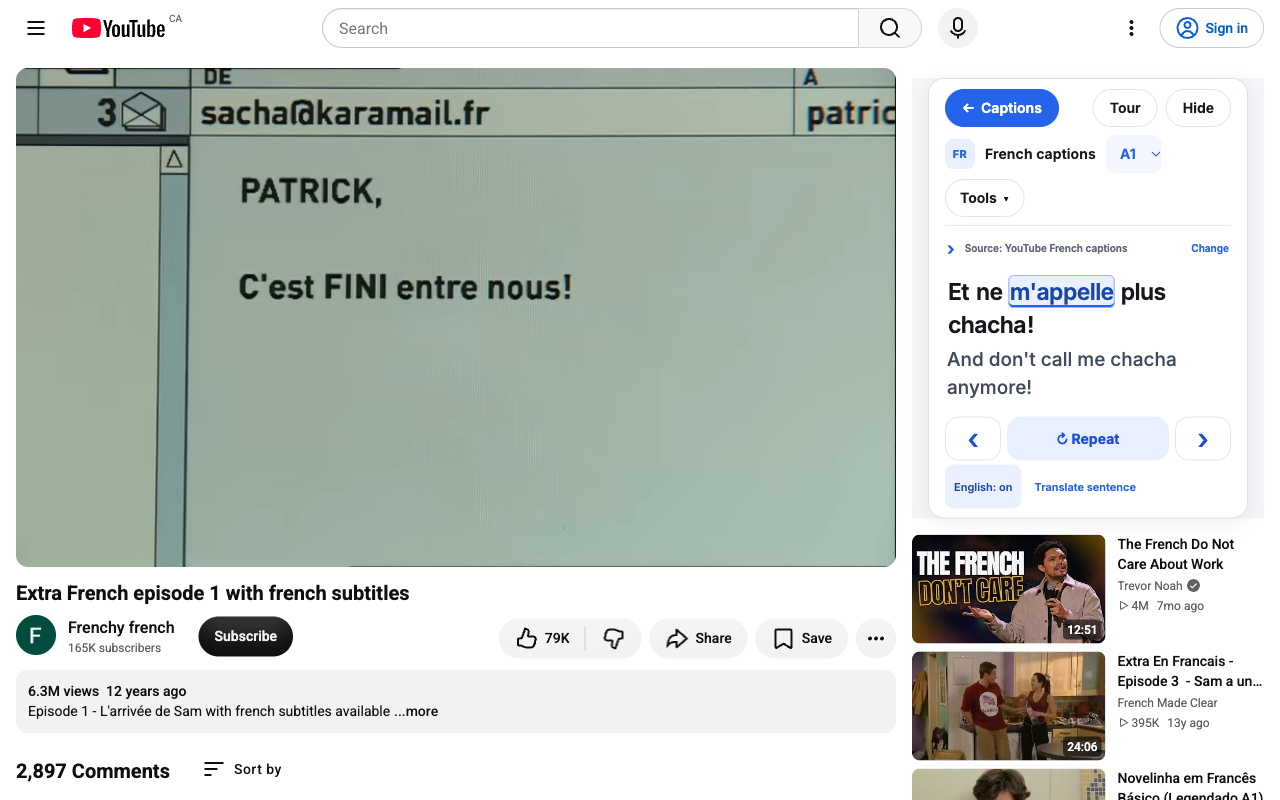
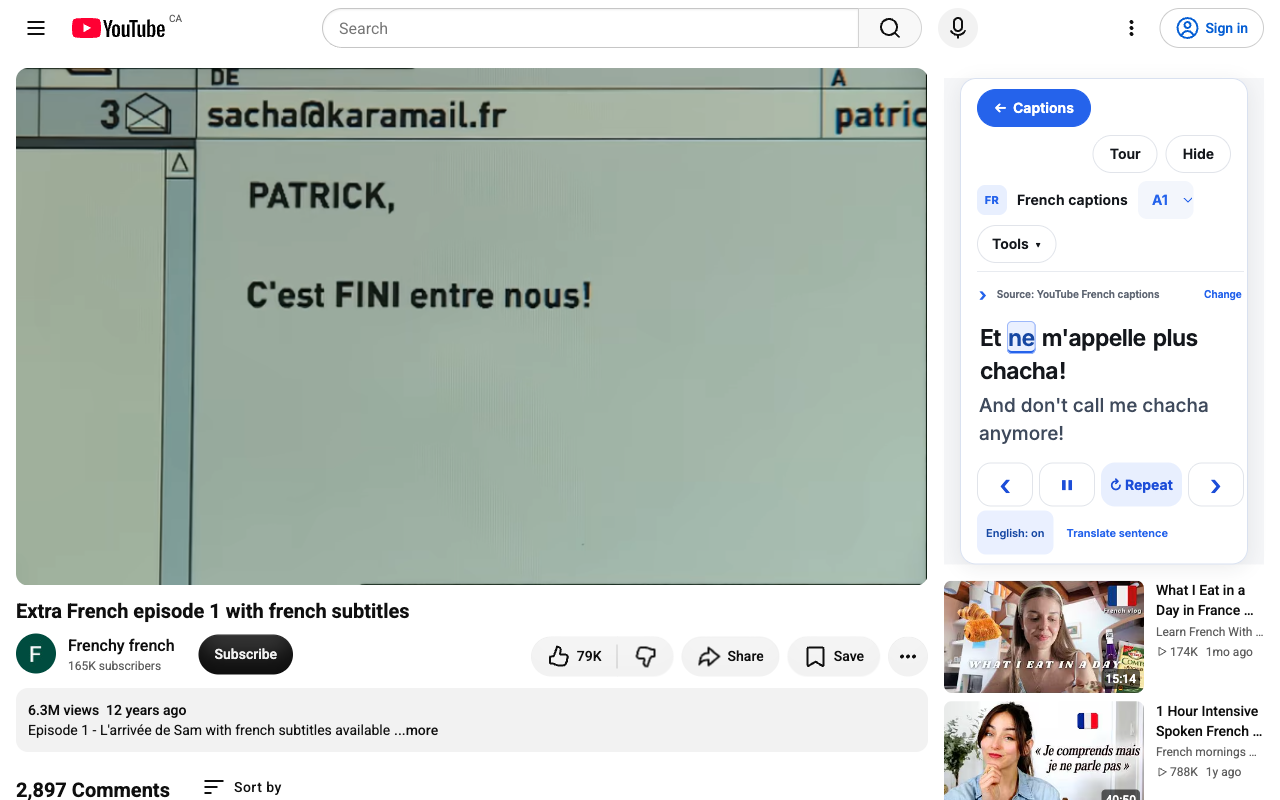
Immersion: play/pause button beside the line chevrons; retaken store screenshots; verified live-line revisit cache
Generated with [Devin](https://devin.ai)

diff --git a/parlesprint-immersion/tests/qa.spec.ts b/parlesprint-immersion/tests/qa.spec.ts
@@ -1004,3 +1004,46 @@ test("live captions: a rolling two-line window and a live English line, in both 
   await check();
   await context.unroute("https://translate.googleapis.com/**");
 });
+
+test("play and pause button works like YouTube's, in the full panel and the slim bar", async () => {
+  const { page, panel } = await imported();
+  const paused = () => page.locator("video").evaluate((v: HTMLVideoElement) => v.paused);
+  await page.locator("video").evaluate((v: HTMLVideoElement) => { v.pause(); });
+  await expect(panel.getByRole("button", { name: "Play" })).toBeVisible();
+  await panel.getByRole("button", { name: "Play" }).click();
+  await expect.poll(paused).toBe(false);
+  await expect(panel.getByRole("button", { name: "Pause" })).toBeVisible();
+  await panel.getByRole("button", { name: "Pause" }).click();
+  await expect.poll(paused).toBe(true);
+  const worker = context.serviceWorkers()[0]!;
+  await worker.evaluate(() => (globalThis as any).chrome.storage.local.set({ prefs: { compactView: true, placement: "below", tourDone: true } }));
+  await panel.getByRole("button", { name: "Play" }).click();
+  await expect.poll(paused).toBe(false);
+  await page.locator("video").evaluate((v: HTMLVideoElement) => v.pause());
+  await expect(panel.getByRole("button", { name: "Play" })).toBeVisible();
+});
+
+test("live lines are saved per video and shown again on a revisit with no new transcription", async () => {
+  const { page } = await fixture();
+  const worker = context.serviceWorkers()[0]!;
+  await page.route("https://www.youtube.com/youtubei/v1/player*", (r) => r.fulfill({ contentType: "application/json", body: JSON.stringify({ playabilityStatus: { status: "ERROR" } }) }));
+  await worker.evaluate(() => (globalThis as any).chrome.storage.local.set({ prefs: { compactView: true, placement: "below", tourDone: true, showTranslation: false } }));
+  const send = (message: Record<string, unknown>) =>
+    worker.evaluate(async (m) => {
+      const c = (globalThis as any).chrome;
+      const [tab] = await c.tabs.query({ url: "https://www.youtube.com/watch*" });
+      await c.tabs.sendMessage(tab.id, { ...m, tabId: tab.id });
+    }, message);
+  await page.locator("video").evaluate((v: HTMLVideoElement) => { v.pause(); v.currentTime = 2; });
+  await send({ type: "live-transcription-status", status: "listening" });
+  await send({ type: "live-transcription-final", text: "Bonjour le monde", at: 2, epoch: 0 });
+  await expect.poll(async () => {
+    const data = await worker.evaluate(async () => await (globalThis as any).chrome.storage.local.get(null));
+    return Object.keys(data).filter((k) => k.startsWith("captions:")).length;
+  }).toBeGreaterThan(0);
+  await page.reload();
+  await expect(page.locator("parlesprint-immersion")).toHaveCount(1);
+  await page.locator("video").evaluate((v: HTMLVideoElement) => { v.pause(); v.currentTime = 1.8; v.dispatchEvent(new Event("timeupdate")); });
+  const bar = page.getByRole("complementary", { name: "ParleSprint Immersion" });
+  await expect(bar.locator(".sentence")).toContainText("Bonjour le monde");
+});

diff --git a/parlesprint-immersion/lib/Immersion.tsx b/parlesprint-immersion/lib/Immersion.tsx
@@ -142,6 +142,7 @@ export function Immersion({ practice }: { practice?: Practice } = {}) {
   const pausedByLookup = useRef(false);
   const [tourStep, setTourStep] = useState<number | null>(null);
   const [liveInterim, setLiveInterim] = useState("");
+  const [isPaused, setIsPaused] = useState(true);
   const [liveShown, setLiveShown] = useState("");
   const [liveTx, setLiveTx] = useState("");
   const [liveCaptureActive, setLiveCaptureActive] = useState(false);
@@ -446,12 +447,13 @@ export function Immersion({ practice }: { practice?: Practice } = {}) {
         cancelReplay();
     };
     const stop = () => cancelReplay();
-    const play = () => { setHeldCue(undefined); tick(); };
+    const syncPaused = () => setIsPaused(video.paused);
+    const play = () => { setHeldCue(undefined); pausedByLookup.current = false; syncPaused(); tick(); };
     const rate = () => { setPlaybackRate(video.playbackRate); };
     const clock = () => { tick(); };
     const seeking = () => { setPlayerSeeking(true); seek(); tick(); };
     const seeked = () => { setPlayerSeeking(false); tick(); };
-    const pause = () => { stop(); tick(); };
+    const pause = () => { stop(); syncPaused(); tick(); };
     video.addEventListener("play", play);
     video.addEventListener("ratechange", rate);
     rate();
@@ -460,6 +462,7 @@ export function Immersion({ practice }: { practice?: Practice } = {}) {
     video.addEventListener("seeked", seeked);
     video.addEventListener("pause", pause);
     video.addEventListener("ended", stop);
+    syncPaused();
     tick();
     setPlayerSeeking(video.seeking);
     return () => {
@@ -892,6 +895,19 @@ export function Immersion({ practice }: { practice?: Practice } = {}) {
     <div className={`seg-nav${compact ? " compact" : ""}`} role="group" aria-label="Move between lines">
       <button className="seg-chevron" aria-label="Previous line" title="Previous line" disabled={!prevCue} onClick={() => prevCue && replay(prevCue)}>
         <span aria-hidden="true">‹</span>
+      </button>
+      <button
+        className="seg-chevron seg-play"
+        aria-label={isPaused ? "Play" : "Pause"}
+        title={isPaused ? "Play" : "Pause"}
+        disabled={!video}
+        onClick={() => {
+          if (!video) return;
+          if (video.paused) void video.play().catch(() => undefined);
+          else video.pause();
+        }}
+      >
+        <span aria-hidden="true">{isPaused ? "▶" : "⏸"}</span>
       </button>
       <button
         className={`seg-repeat primary${compact ? hl("repeat", compactTour) : ""}`}

diff --git a/parlesprint-immersion/lib/style.css b/parlesprint-immersion/lib/style.css
@@ -1609,3 +1609,11 @@ body {
 .ps .tail-clamp { display: block; position: relative; }
 .ps .tail-measure { position: absolute; left: 0; right: 0; top: 0; display: block; visibility: hidden; pointer-events: none; }
 .ps.youtube-companion .sentence.live { display: block; -webkit-line-clamp: unset; max-height: none; overflow: visible; }
+
+/* Play / pause between the chevrons */
+.ps .seg-nav .seg-play { font-size: 18px; }
+.ps.youtube-companion .caption-actions .seg-nav .seg-play { font-size: 20px; flex: 0 0 56px; }
+.ps.ov .seg-nav.compact .seg-play { font-size: 14px; }
+.ps.ov.docked .seg-nav.compact .seg-play { flex: 0 0 32px; min-width: 32px; }
+.ps.ov.docked .ov-controls > button[aria-label="How this works"] { display: none; }
+.ps.ov.docked .ov-controls { flex-wrap: nowrap; }

diff --git a/parlesprint-immersion/store/SUBMISSION_CHECKLIST.md b/parlesprint-immersion/store/SUBMISSION_CHECKLIST.md
@@ -3,7 +3,7 @@
 Upload: `release/parlesprint-immersion-0.2.0-chrome-STORE.zip` (built with `npm run zip:store`; the manifest has no `key`, as the Web Store requires).
 
 ## Done and verified
-- [x] 117 unit tests, 16 backend tests, 28 browser tests pass; production build contains no test-only code or secrets.
+- [x] 117 unit tests, 16 backend tests, 31 browser tests pass; production build contains no test-only code or secrets.
 - [x] Minimal permissions: storage, activeTab, scripting, tabCapture, offscreen. Hosts: youtube.com, translate.googleapis.com, the Supabase project. No broad host access, no microphone, no remote code, no identity.
 - [x] Backend accepts any Chrome extension origin (the store assigns the ID after upload), rejects websites, and enforces free daily limits per install, IP and globally.
 - [x] Privacy policy deployed at the Supabase URL and matches this build (v0.4). Previous deployed text archived in `store/archive/`.
